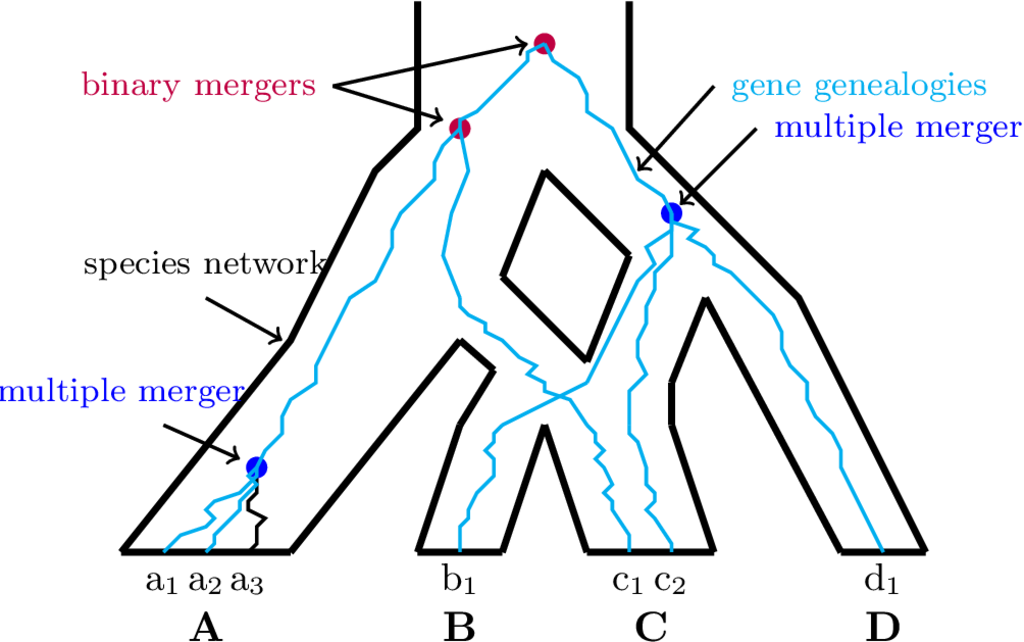
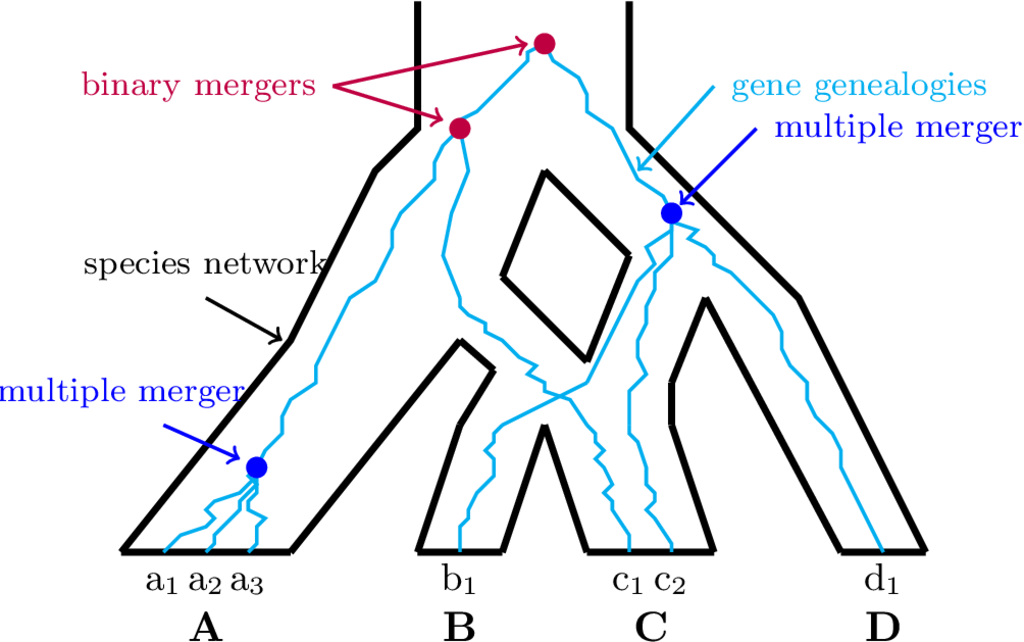
update figure

diff --git a/doc/multi_in_net_tikz_fig_color.tex b/doc/multi_in_net_tikz_fig_color.tex
@@ -34,11 +34,6 @@
 \draw(0\du,22.5\du)--(5\du,35\du);
 \draw(-5\du,45\du)--(5\du,35\du);
 % \pgfmathsetmacro{\Xb}{random(7)};
-\draw[thick](-40\du,0\du)--(-39\du,1\du)--(-39\du,2\du)--(-39\du,3\du)--(-38\du,4\du)--(-40\du,5\du)--(-40\du,6\du)--(-39\du,7\du)--(-39\du,8\du)--(-39\du,9\du)--(-39\du,10\du);
-\fill(-39\du,10\du)[black,blue]circle(2.5pt);
-\fill(-15\du,50\du)[black,purple]circle(2.5pt);
-\fill(-5\du,60\du)[black,purple]circle(2.5pt);
-\fill(10\du,40\du)[black,blue]circle(2.5pt);
 \node at (-45\du,-5\du)[below]{\bf A};
 \node at (-15\du,-5\du)[below]{\bf B};
 \node at (7.5\du,-5\du)[below]{\bf C};
@@ -63,6 +58,7 @@
 % \draw[thick](0\du,15\du)--(-15\du,30\du);
 % \draw[thick](-15\du,30\du)--(-15\du,50\du);
 % \draw[thick](5\du,15\du)--(10\du,40\du);
+\draw[thick,cyan](-40\du,0\du)--(-39\du,1\du)--(-39\du,2\du)--(-39\du,3\du)--(-38\du,4\du)--(-40\du,5\du)--(-40\du,6\du)--(-39\du,7\du)--(-39\du,8\du)--(-39\du,9\du)--(-39\du,10\du);
 \draw[thick,cyan](-39\du,10\du)--(-38\du,12\du)--(-36\du,14\du)--(-36\du,16\du)--(-35\du,18\du)--(-32\du,20\du)--(-32\du,22\du)--(-31\du,24\du)--(-30\du,26\du)--(-29\du,28\du)--(-28\du,30\du)--(-25\du,32\du)--(-24\du,34\du)--(-23\du,36\du)--(-23\du,38\du)--(-22\du,40\du)--(-20\du,42\du)--(-18\du,44\du)--(-18\du,46\du)--(-17\du,48\du)--(-15\du,50\du);
 \draw[thick,cyan](-15\du,50\du)--(-15\du,51\du)--(-13\du,52\du)--(-12\du,53\du)--(-11\du,54\du)--(-10\du,55\du)--(-9\du,56\du)--(-8\du,57\du)--(-7\du,58\du)--(-7\du,59\du)--(-5\du,60\du);
 \draw[thick,cyan](10\du,40\du)--(9\du,42\du)--(6\du,44\du)--(5\du,46\du)--(4\du,48\du)--(3\du,50\du)--(0\du,52\du)--(0\du,54\du)--(-1\du,56\du)--(-4\du,58\du)--(-5\du,60\du);
@@ -80,16 +76,17 @@
 \draw[thick,cyan](-50\du,0\du)--(-49\du,1\du)--(-48\du,2\du)--(-45\du,3\du)--(-44\du,4\du)--(-45\du,5\du)--(-44\du,6\du)--(-41\du,7\du)--(-40\du,8\du)--(-39\du,9\du)--(-39\du,10\du);
 \draw[thick,->](-45\du,30\du)--(-36\du,25\du);
 \node at (-45\du,30\du)[above]{\footnotesize species network};
-\draw[thick,->](15\du,55\du)--(6\du,45\du);
+\draw[thick,->,cyan](15\du,55\du)--(6\du,45\du);
 \node at (15\du,55\du)[right, cyan]{\footnotesize gene genealogies};
-\draw[thick,->](20\du,50\du)--(11\du,41\du);
+\draw[thick,->,blue](20\du,50\du)--(11\du,41\du);
 \node at (20\du,50\du)[right,blue]{\footnotesize multiple merger};
-\draw[thick,->](-30\du,55\du)--(-17\du,51\du);
-\draw[thick,->](-30\du,55\du)--(-7\du,60\du);
+\draw[thick,->,purple](-30\du,55\du)--(-17\du,51\du);
+\draw[thick,->,purple](-30\du,55\du)--(-7\du,60\du);
 \node at (-30\du,55\du)[left, purple]{\footnotesize binary mergers};
-% \node at (-45\du,55\du)[below]{\footnotesize (or Kingman coalescent)};
-% \node at (-30\du,55\du)[left]{\footnotesize multiple merger};
-% \node at (-45\du,55\du)[below]{\footnotesize (or Kingman coalescent)};
-\draw[thick,->](-50\du,15\du)--(-41\du,11\du);
+\draw[thick,->,blue](-50\du,15\du)--(-41\du,11\du);
 \node at (-55\du,15\du)[above,blue]{\footnotesize multiple merger};
+\fill(-39\du,10\du)[black,blue]circle(2.5pt);
+\fill(-15\du,50\du)[black,purple]circle(2.5pt);
+\fill(-5\du,60\du)[black,purple]circle(2.5pt);
+\fill(10\du,40\du)[black,blue]circle(2.5pt);
 \end{tikzpicture}
